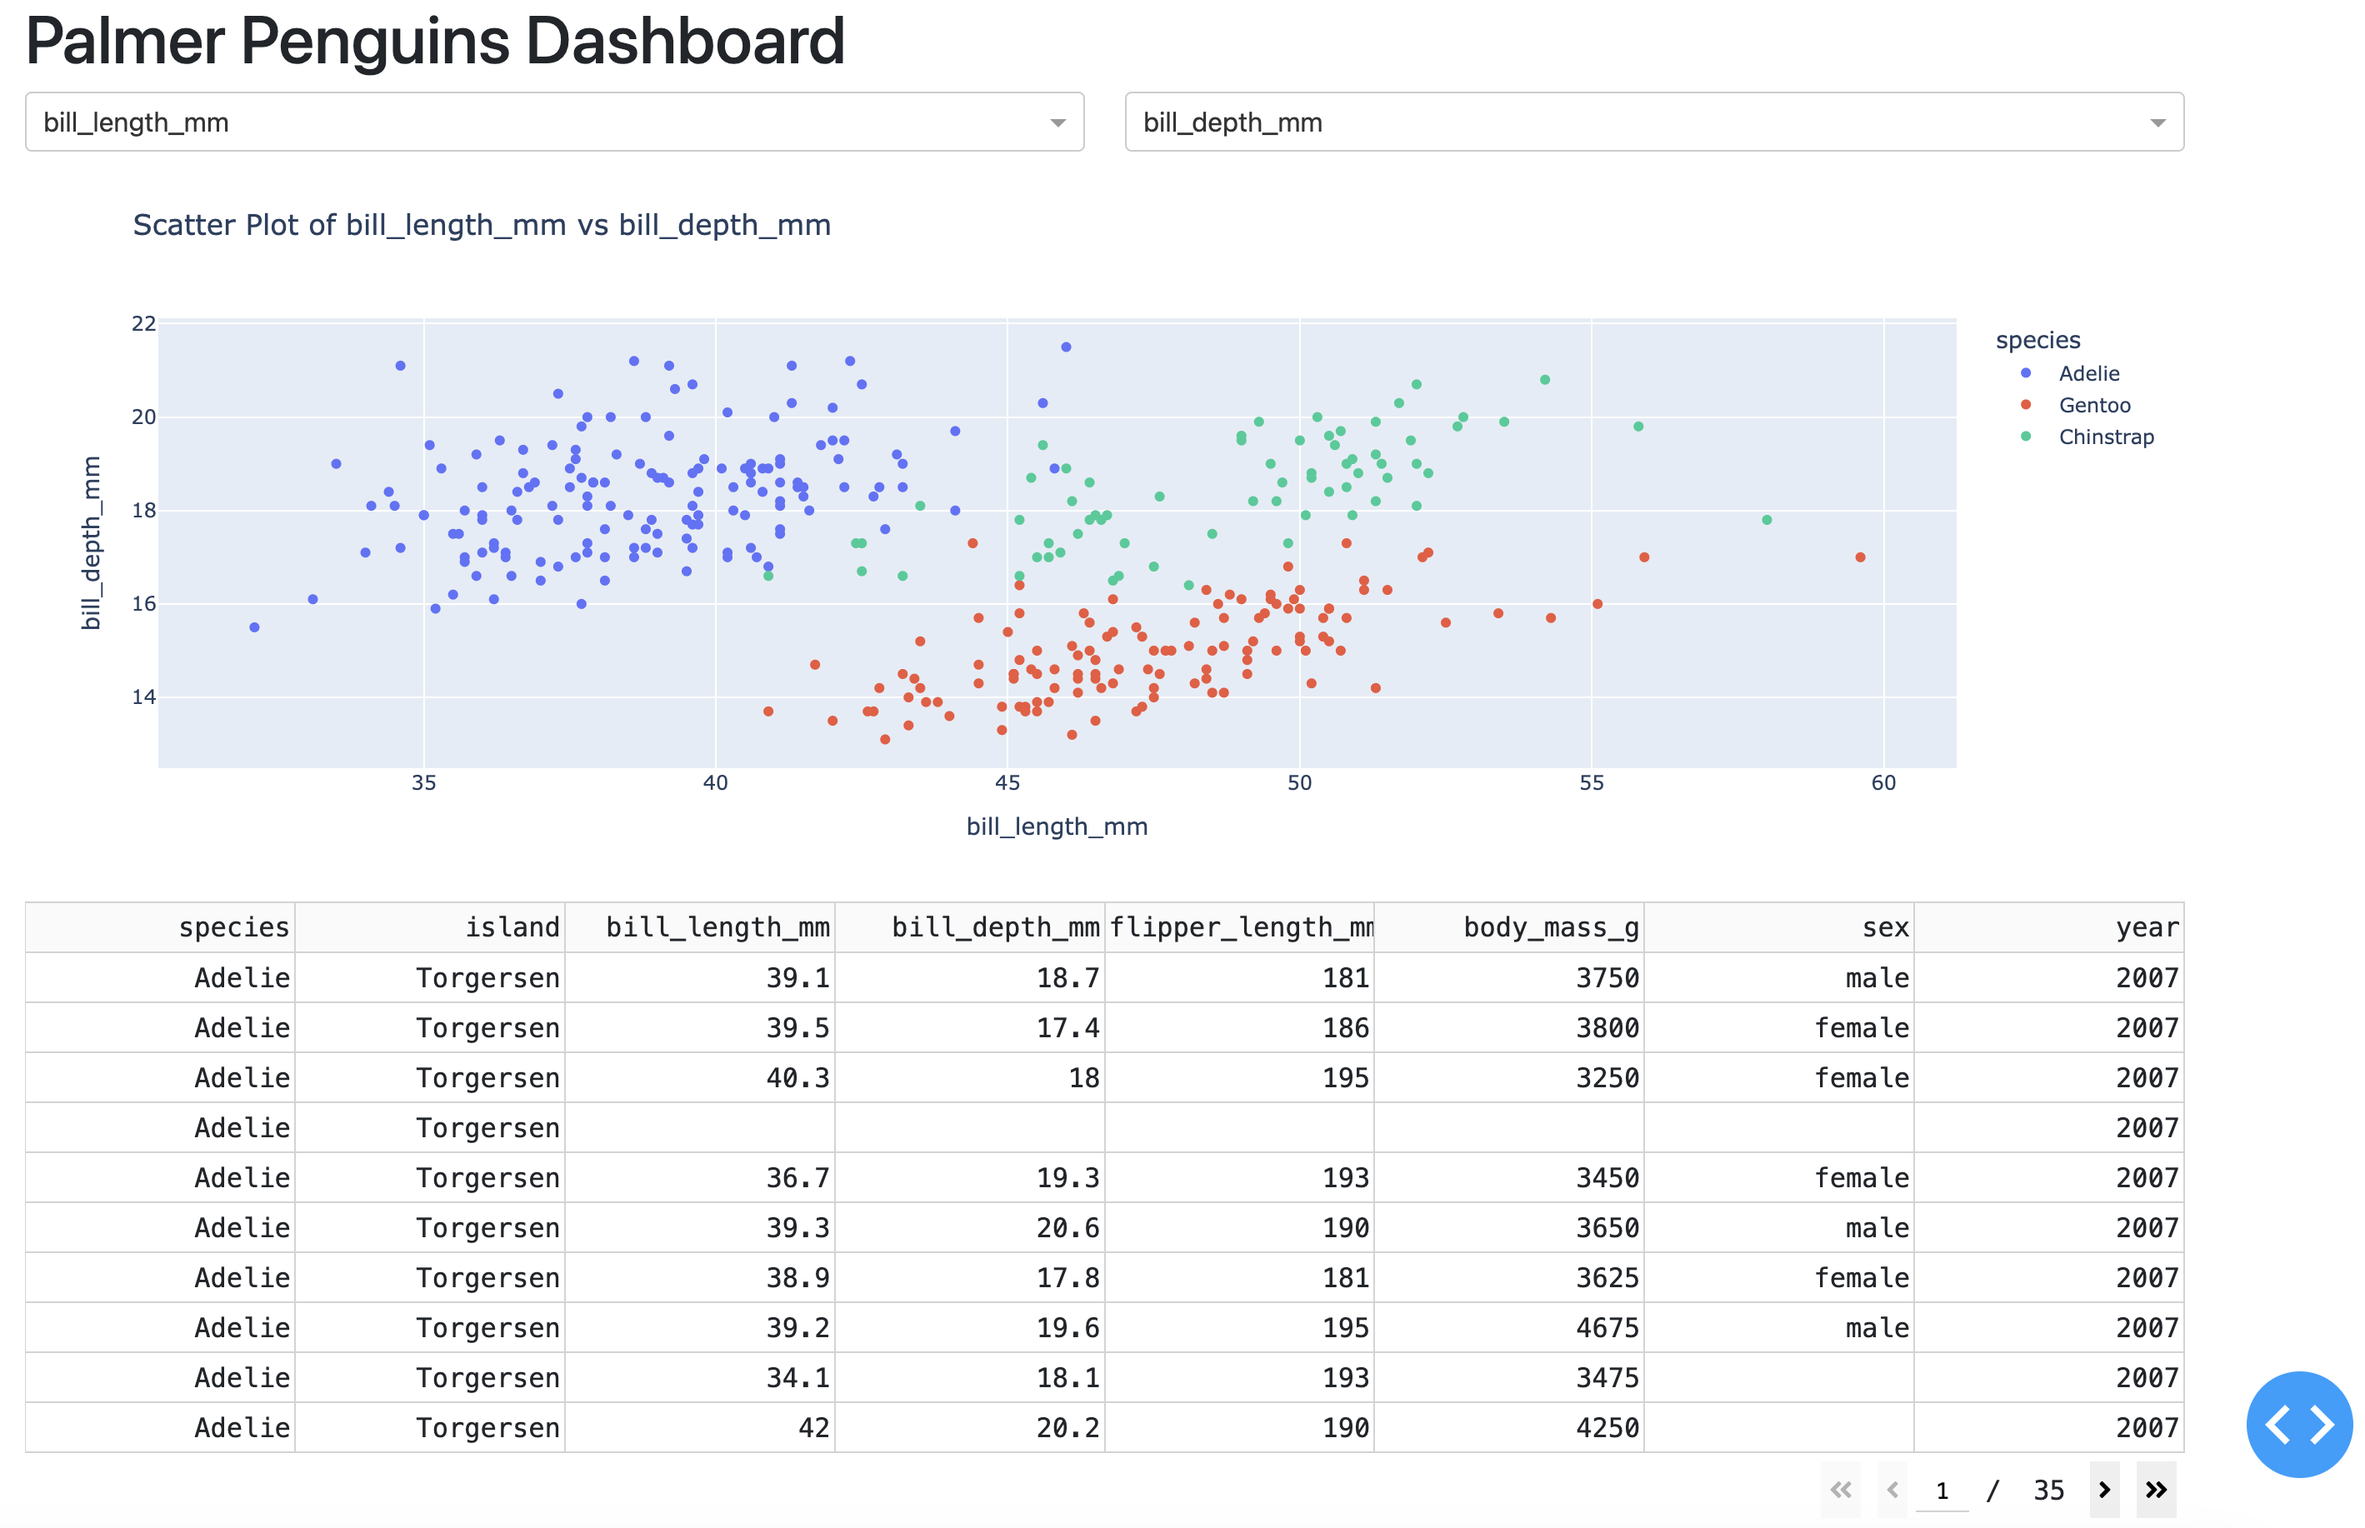
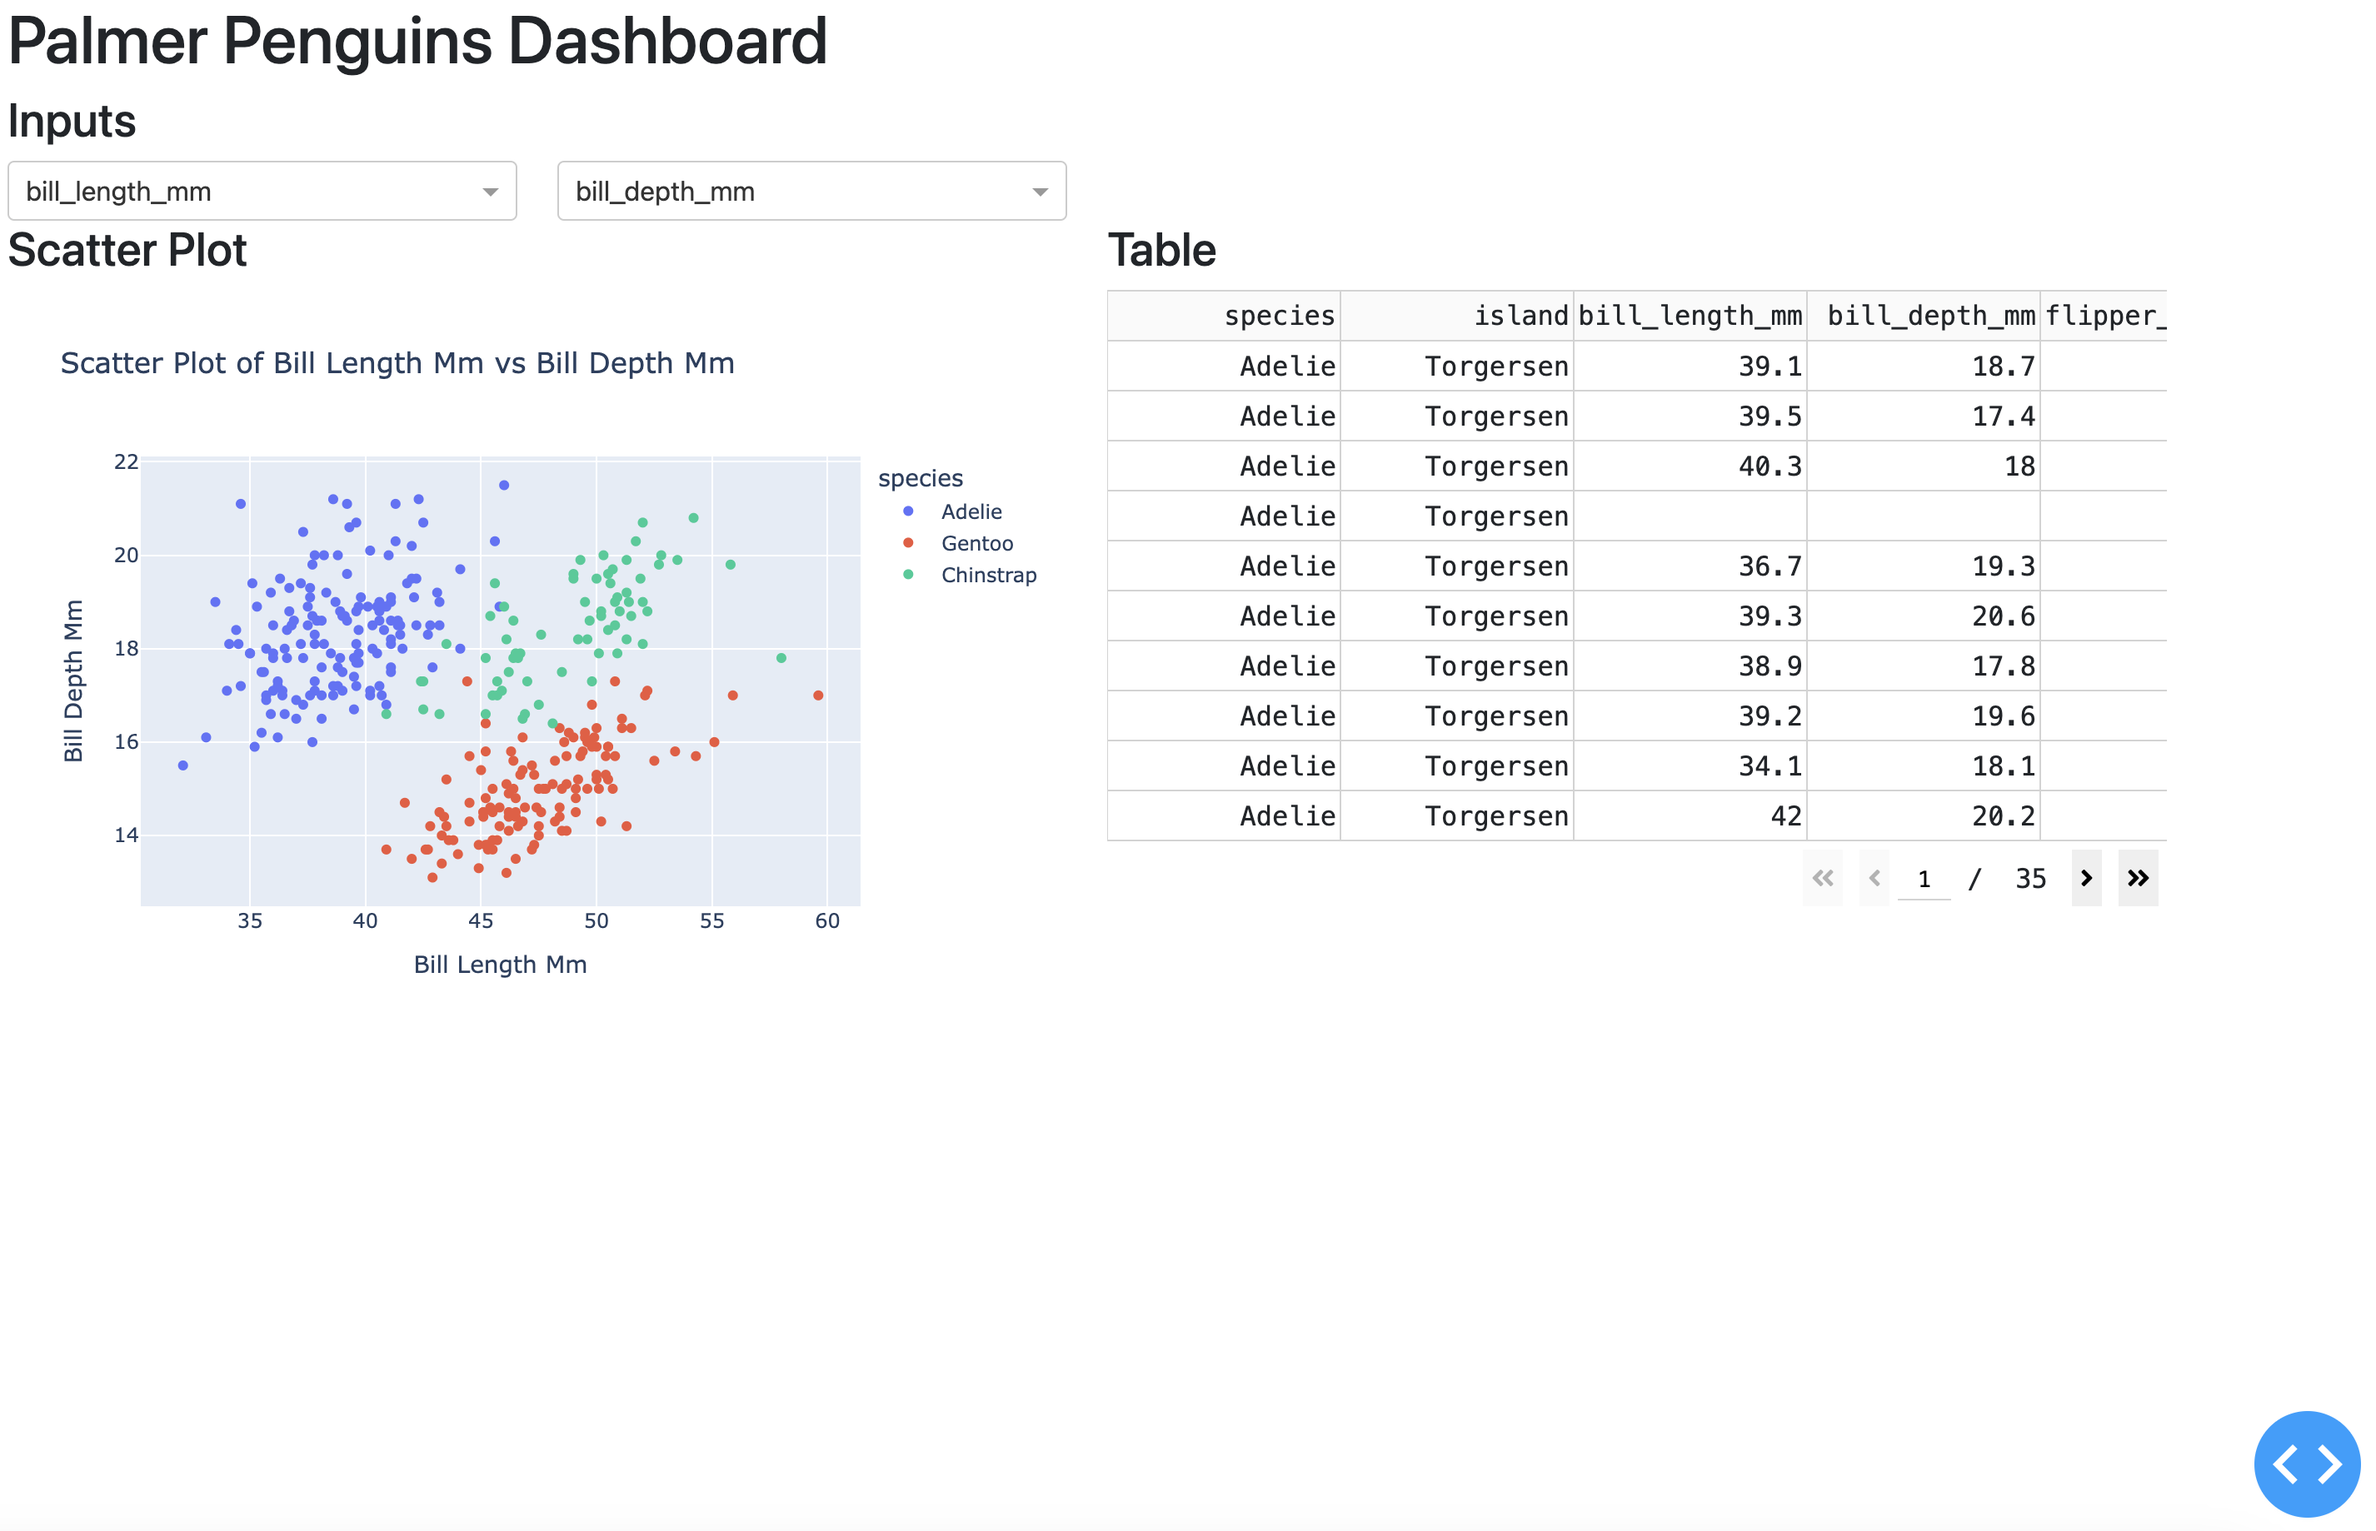
updates to DASH readme

diff --git a/dash/app.py b/dash/app.py
@@ -5,45 +5,55 @@ import pandas as pd
 import plotly.express as px
 import dash_bootstrap_components as dbc
 
-# Load the dataset
+# load the dataset
 url = "https://raw.githubusercontent.com/allisonhorst/palmerpenguins/main/inst/extdata/penguins.csv"
 df = pd.read_csv(url)
 
-# Initialize the Dash app
+# remove the 'year' column 
+numerical_columns = [col for col in df.select_dtypes(include=['float64', 'int64']).columns if col != 'year']
+
+# initialize the Dash app
 app = dash.Dash(__name__, external_stylesheets=[dbc.themes.BOOTSTRAP])
 
-# App layout
+# function to replace underscores with spaces
+def format_label(label):
+    return label.replace('_', ' ').title()
+
+# app layout
 app.layout = dbc.Container([
+    dbc.Row(
+        dbc.Col(
+            html.H1("Palmer Penguins Dashboard"), 
+        width=12)
+    ),
+    dbc.Row(
+        html.H3("Inputs")
+    ),
     dbc.Row([
-        dbc.Col([
-            html.H1("Palmer Penguins Dashboard")
-        ], width=12)
-    ]),
-    dbc.Row([
-        dbc.Col([
+        dbc.Col(
             dcc.Dropdown(
                 id='x-axis',
-                options=[{'label': col, 'value': col} for col in df.select_dtypes(include=['float64', 'int64']).columns],
+                options=[{'label': col, 'value': col} for col in numerical_columns],
                 value='bill_length_mm',
                 clearable=False
-            )
-        ], width=6),
-        dbc.Col([
+            ), width=3
+        ),
+        dbc.Col(
             dcc.Dropdown(
                 id='y-axis',
-                options=[{'label': col, 'value': col} for col in df.select_dtypes(include=['float64', 'int64']).columns],
+                options=[{'label': col, 'value': col} for col in numerical_columns],
                 value='bill_depth_mm',
                 clearable=False
-            )
-        ], width=6)
+            ), width=3
+        )
     ]),
     dbc.Row([
         dbc.Col([
+            html.H3("Scatter Plot"),
             dcc.Graph(id='scatter-plot')
-        ], width=12)
-    ]),
-    dbc.Row([
+        ], width=6),
         dbc.Col([
+            html.H3("Table"),
             dash_table.DataTable(
                 id='table',
                 columns=[{"name": i, "id": i} for i in df.columns],
@@ -56,11 +66,11 @@ app.layout = dbc.Container([
                     'whiteSpace': 'normal'
                 }
             )
-        ], width=12)
+        ], width=6)
     ])
 ])
 
-# Callback to update the scatter plot
+# callback to update the scatter plot
 @app.callback(
     Output('scatter-plot', 'figure'),
     [Input('x-axis', 'value'),
@@ -69,11 +79,11 @@ app.layout = dbc.Container([
 def update_scatter_plot(x_axis, y_axis):
     fig = px.scatter(
         df, x=x_axis, y=y_axis, color='species',
-        labels={x_axis: x_axis, y_axis: y_axis},
-        title=f'Scatter Plot of {x_axis} vs {y_axis}'
+        labels={x_axis: format_label(x_axis), y_axis: format_label(y_axis)},
+        title=f'Scatter Plot of {format_label(x_axis)} vs {format_label(y_axis)}'
     )
     return fig
 
-# Run the app
+# run the app
 if __name__ == '__main__':
     app.run_server(debug=True)

diff --git a/dash/README.md b/dash/README.md
@@ -33,6 +33,17 @@ url = "https://raw.githubusercontent.com/allisonhorst/palmerpenguins/main/inst/e
 df = pd.read_csv(url)
 ```
 
+## Numeric Columns
+
+Define numeric columns for drop-downs.
+
+```python
+# remove the 'year' column 
+numerical_columns = [col for col in df.select_dtypes(include=['float64', 'int64']).columns if col != 'year']
+```
+
+Similar to using `names()`, `sapply()`, and `is.numeric()` in R.
+
 ## Initialize App
 
 `dash.Dash()` creates a Dash app instance with Bootstrap styling.
@@ -43,6 +54,17 @@ app = dash.Dash(__name__, external_stylesheets=[dbc.themes.BOOTSTRAP])
 ```
 
 Similar to initializing a Shiny app with `shinyApp()`.
+
+## Utility Function
+
+This function replaces underscores with spaces and capitalizes words. 
+
+```python
+def format_label(label):
+    return label.replace('_', ' ').title()
+```
+
+In R, you would define a similar function using `gsub()` and `tools::toTitleCase()`.
 
 ## UI Layout
 
@@ -55,38 +77,42 @@ Similar to initializing a Shiny app with `shinyApp()`.
 4. `dash_table.DataTable` displays data in a table, similar to `DT::dataTableOutput()` in R.
 
 ```python
-# App layout
+# app layout
+# app layout
 app.layout = dbc.Container([
+    dbc.Row(
+        dbc.Col(
+            html.H1("Palmer Penguins Dashboard"), 
+        width=12)
+    ),
+    dbc.Row(
+        html.H3("Inputs")
+    ),
     dbc.Row([
-        dbc.Col([
-            html.H1("Palmer Penguins Dashboard")
-        ], width=12)
-    ]),
-    dbc.Row([
-        dbc.Col([
+        dbc.Col(
             dcc.Dropdown(
                 id='x-axis',
-                options=[{'label': col, 'value': col} for col in df.select_dtypes(include=['float64', 'int64']).columns],
+                options=[{'label': col, 'value': col} for col in numerical_columns],
                 value='bill_length_mm',
                 clearable=False
-            )
-        ], width=6),
-        dbc.Col([
+            ), width=3
+        ),
+        dbc.Col(
             dcc.Dropdown(
                 id='y-axis',
-                options=[{'label': col, 'value': col} for col in df.select_dtypes(include=['float64', 'int64']).columns],
+                options=[{'label': col, 'value': col} for col in numerical_columns],
                 value='bill_depth_mm',
                 clearable=False
-            )
-        ], width=6)
+            ), width=3
+        )
     ]),
     dbc.Row([
         dbc.Col([
+            html.H3("Scatter Plot"),
             dcc.Graph(id='scatter-plot')
-        ], width=12)
-    ]),
-    dbc.Row([
+        ], width=6),
         dbc.Col([
+            html.H3("Table"),
             dash_table.DataTable(
                 id='table',
                 columns=[{"name": i, "id": i} for i in df.columns],
@@ -99,7 +125,7 @@ app.layout = dbc.Container([
                     'whiteSpace': 'normal'
                 }
             )
-        ], width=12)
+        ], width=6)
     ])
 ])
 ```
@@ -110,10 +136,9 @@ The callback function updates the scatter plot based on dropdown inputs:
 
 1. The `@app.callback` decorator defines reactive behavior, similar to `observeEvent()` or `reactive()` in Shiny.
 
-2. The function `update_scatter_plot` takes inputs from dropdowns and updates the plot, using `plotly.express` to create the scatter plot, similar to using `ggplot2` in R.
+2. The function `update_scatter_plot` takes inputs from dropdowns and updates the plot, using `plotly.express` and our `format_label()` utility function to create the scatter plot, similar to using `ggplot2` in R.
 
 ```python
-# Callback to update the scatter plot
 @app.callback(
     Output('scatter-plot', 'figure'),
     [Input('x-axis', 'value'),
@@ -122,8 +147,8 @@ The callback function updates the scatter plot based on dropdown inputs:
 def update_scatter_plot(x_axis, y_axis):
     fig = px.scatter(
         df, x=x_axis, y=y_axis, color='species',
-        labels={x_axis: x_axis, y_axis: y_axis},
-        title=f'Scatter Plot of {x_axis} vs {y_axis}'
+        labels={x_axis: format_label(x_axis), y_axis: format_label(y_axis)},
+        title=f'Scatter Plot of {format_label(x_axis)} vs {format_label(y_axis)}'
     )
     return fig
 ```

diff --git a/README.md b/README.md
@@ -33,5 +33,3 @@ Instructions for publishing these apps can be found in the blog post titled, "**
 ## Dash
 
 ![Dash App](dash_penguins.png)
-
-
